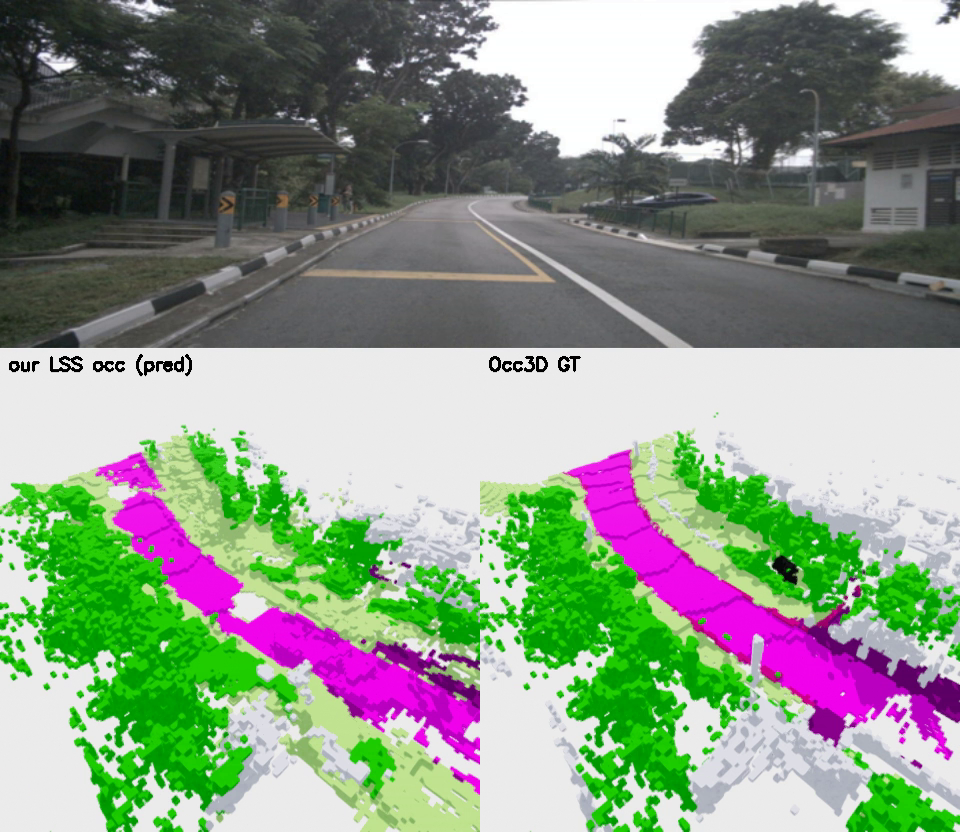
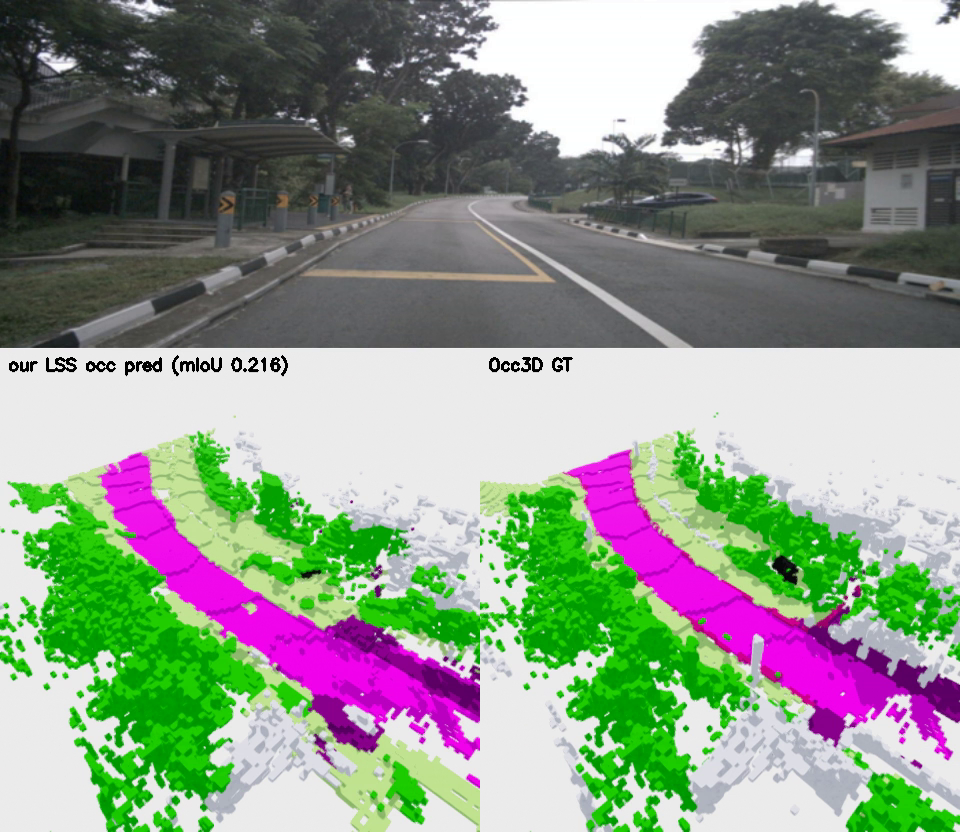
Re-render pred-vs-GT with the 0.216 DINOv2-base model
The strongest LSS occupancy model (mIoU 0.216) now drives the prediction-vs-GT
comparison: its voxels track the Occ3D GT structure (road curve, sidewalk borders,
vegetation) markedly better than the 0.152 model. Updated docs frame + caption;
output/lss_occ/lss_occ_vs_gt.mp4 regenerated.

diff --git a/DeepDataMiningLearning/ngperception/TUTORIAL.md b/DeepDataMiningLearning/ngperception/TUTORIAL.md
@@ -426,7 +426,7 @@ python -m DeepDataMiningLearning.ngperception.occupancy.train_lss \
     --max-samples 3000 --epochs 12 --depth-weight 1.0
 ```
 
-**Prediction vs ground truth.** Rendering the trained model's voxels next to the Occ3D GT
+**Prediction vs ground truth.** Rendering the strongest (mIoU 0.216) model's voxels next to the Occ3D GT
 (both camera-masked, same open3d view) shows it captures the scene's geometry *and*
 semantics — the road, sidewalk, terrain, and vegetation line up; the prediction is just
 denser/noisier than the densified GT: